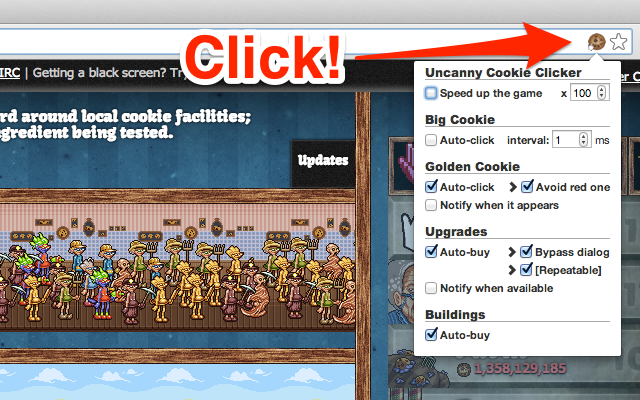
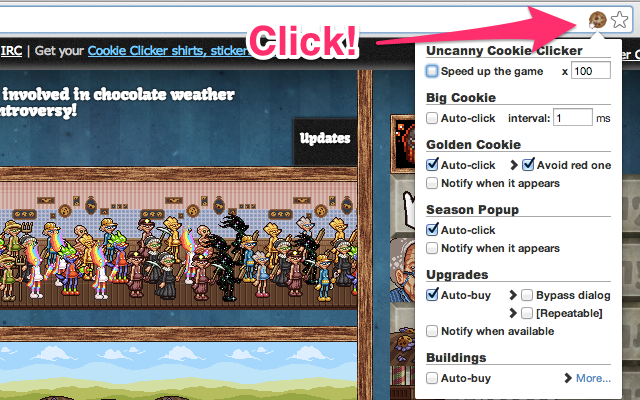
Update README, screenshots, and manifest

diff --git a/README.md b/README.md
@@ -1,5 +1,7 @@
 # Uncanny Cookie Clicker
 
+![A screenshot of Uncanny Cookie Clicker](images/screenshot-01.png)
+
 [Uncanny Cookie Clicker][] is a [Chrome][] extension which helps you play
 [Cookie Clicker][]. Currently supported features are:
 
